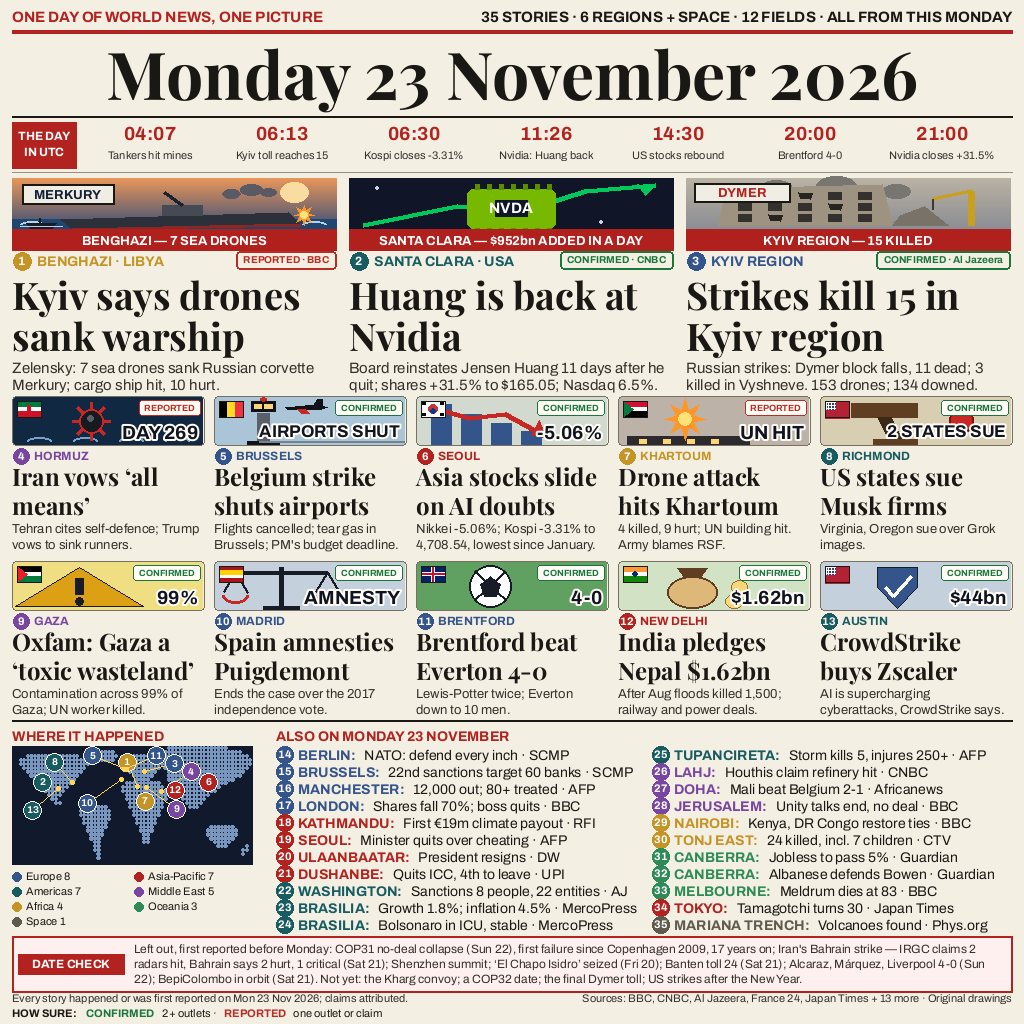
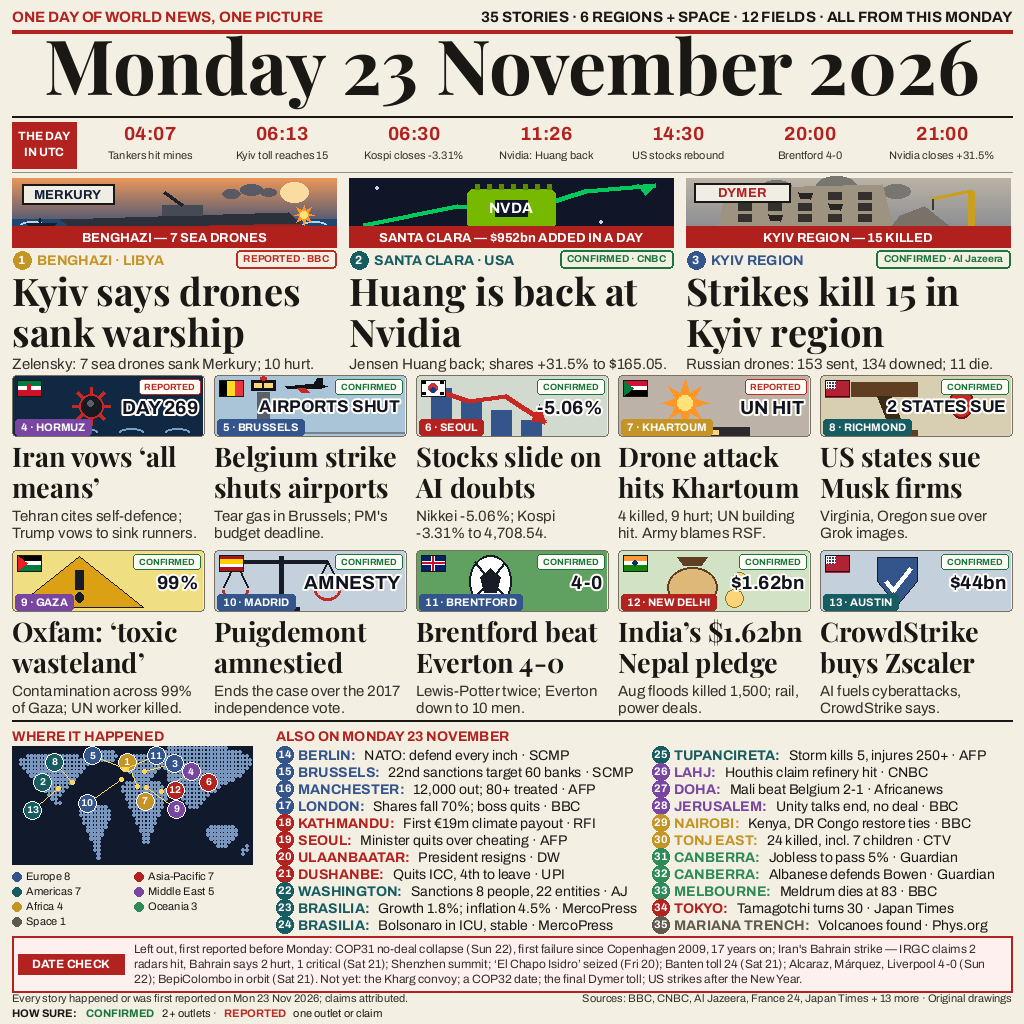
Corrected bagarte targets: cards 27/15, strip 60 + tab, date 76
Card headlines SERIF 24->27 (pitch 31, set by the audit clearance
floor), card decks SANS 13->15, card strips 48->60 with the number
and place moved onto the strip as a tab, date SERIF 66->76. Funded
by one-line hero decks and scenes 72->69; two figures leave the
page and registry (Nasdaq +6.5%, Vyshneve 3; 45->43). ALSO two-tier
assessed: needs ~374-440px vs the 216px bottom band - does not fit,
one-line 14px kept per Ahmad's fallback. All audits clean on the
final bytes; deterministic.

Changed region(s): [[0.0, 0.2188, 1.0, 0.7188], [0.0312, 0.0312, 0.9688, 0.125]]

diff --git a/draw.py b/draw.py
@@ -4,9 +4,10 @@
 One 1024x1024 newspaper page: 3 heroes + 10 cards + a 22-line ALSO
 rail = exactly 35 stories, across 7 regions including Oceania, every
 story dated to Monday 23 November 2026. Geometry first (GATES.md):
-hero headlines 38px, card headlines 24px, brief text >= 14px,
-in-scene labels >= 13px (type scale matched to bagarte, the edition
-22 winner, on Ahmad's instruction 2026-11-24). The layout clones the measured superskie
+hero headlines 38px, card headlines 27px, card decks 15px, date
+76px, brief text >= 14px, in-scene labels >= 13px (type scale
+matched to bagarte, the edition 22 winner, on Ahmad's instruction
+2026-11-24). The layout clones the measured superskie
 template of the winning editions (masthead, UTC timeline, hero bands
 inside the scenes, 5-across x 2-row cards with a single pictogram
 strip, dot-grid world map with numbered pins, ALSO rail, red DATE
@@ -463,22 +464,20 @@ assert all(len(r) == 68 for r in LAND_MAP) and len(LAND_MAP) == 30
 HEROES = [
     ("BENGHAZI, LIBYA", "AFR", "Conflict",
      "Kyiv says drones sank warship",
-     "Zelensky: " + FIG["merkury_drones"] + " sea drones sank Russian "
-     "corvette Merkury; cargo ship hit, "
+     "Zelensky: " + FIG["merkury_drones"] + " sea drones sank Merkury; "
      + FIG["merkury_injured"] + " hurt.",
      "BBC", "R", FIG["merkury_drones"], "SEA DRONES"),
     ("SANTA CLARA, USA", "AME", "Tech",
      "Huang is back at Nvidia",
-     "Board reinstates Jensen Huang 11 days after he quit; shares "
+     "Jensen Huang back; shares "
      + FIG["nvidia_jump"] + " to "
-     + FIG["nvidia_close"] + "; Nasdaq " + FIG["nasdaq_gain"] + ".",
+     + FIG["nvidia_close"] + ".",
      "CNBC", "C", FIG["nvidia_gain"], "ADDED IN A DAY"),
     ("KYIV REGION", "EUR", "Conflict",
      "Strikes kill 15 in Kyiv region",
-     "Russian strikes: Dymer block falls, " + FIG["dymer_killed"]
-     + " dead; " + FIG["vyshneve_killed"] + " killed in Vyshneve. "
-     + FIG["drones_overnight"] + " drones; "
-     + FIG["drones_down"] + " downed.",
+     "Russian drones: " + FIG["drones_overnight"] + " sent, "
+     + FIG["drones_down"] + " downed; " + FIG["dymer_killed"]
+     + " die.",
      "Al Jazeera", "C", FIG["kyiv_region_killed"], "KILLED"),
 ]
 
@@ -490,12 +489,12 @@ CARDS = [
      "Al Jazeera", "R"),
     ("BRUSSELS", "EUR", "Politics",
      "Belgium strike shuts airports",
-     "Flights cancelled; tear gas in Brussels; PM's budget deadline.",
+     "Tear gas in Brussels; PM's budget deadline.",
      "France 24", "C"),
     ("SEOUL", "ASI", "Economy",
-     "Asia stocks slide on AI doubts",
+     "Stocks slide on AI doubts",
      "Nikkei " + FIG["nikkei_fall"] + "; Kospi " + FIG["kospi_fall"]
-     + " to " + FIG["kospi_close"] + ", lowest since January.",
+     + " to " + FIG["kospi_close"] + ".",
      "BBC", "C"),
     ("KHARTOUM", "AFR", "Conflict",
      "Drone attack hits Khartoum",
@@ -507,12 +506,12 @@ CARDS = [
      "Virginia, Oregon sue over Grok images.",
      "Al Jazeera", "C"),
     ("GAZA", "MEA", "Society",
-     "Oxfam: Gaza a \u2018toxic wasteland\u2019",
+     "Oxfam: \u2018toxic wasteland\u2019",
      "Contamination across " + FIG["gaza_contamination"] + " of Gaza; "
      "UN worker killed.",
      "BBC", "C"),
     ("MADRID", "EUR", "Justice",
-     "Spain amnesties Puigdemont",
+     "Puigdemont amnestied",
      "Ends the case over the " + FIG["puigdemont_year"]
      + " independence vote.",
      "La Naci\u00f3n", "C"),
@@ -521,13 +520,13 @@ CARDS = [
      "Lewis-Potter twice; Everton down to 10 men.",
      "Sky Sports", "C"),
     ("NEW DELHI", "ASI", "Diplomacy",
-     "India pledges Nepal $1.62bn",
-     "After Aug floods killed " + FIG["nepal_flood_dead"]
-     + "; railway and power deals.",
+     "India\u2019s $1.62bn Nepal pledge",
+     "Aug floods killed " + FIG["nepal_flood_dead"]
+     + "; rail, power deals.",
      "Al Jazeera", "C"),
     ("AUSTIN", "AME", "Economy",
      "CrowdStrike buys Zscaler",
-     "AI is supercharging cyberattacks, CrowdStrike says.",
+     "AI fuels cyberattacks, CrowdStrike says.",
      "CNBC", "C"),
 ]
 
@@ -707,7 +706,7 @@ HERO_SCENES = [scene_benghazi, scene_nvidia, scene_kyiv]
 
 # ---------------------------------------------------------- card pictograms
 # One dominant pictogram per card, drawn natively at strip size
-# (190x48) on a throwaway canvas: the topic must read from the symbol
+# (190x60) on a throwaway canvas: the topic must read from the symbol
 # alone before any word is decoded.
 def pic_mine(g, ox, oy, wd, ht):
     # DOMINANT: one spiked naval mine, drawn at strip size; the topic
@@ -754,14 +753,14 @@ def pic_plane(g, ox, oy, wd, ht):
 
 def pic_chart_down(g, ox, oy, wd, ht):
     g.rectangle([ox, oy, ox + wd, oy + ht], fill=(210, 218, 208))
-    for idx, bar_h in enumerate((41, 31, 22, 14)):
+    for idx, bar_h in enumerate((48, 36, 26, 16)):
         bx = ox + 14 + idx * 30
         g.rectangle([bx, oy + ht - bar_h, bx + 20, oy + ht],
                     fill=(52, 84, 140))
-    g.line([ox + 10, oy + 9, ox + 52, oy + 21, ox + 88, oy + 17,
-            ox + 128, oy + 39], fill=(200, 40, 36), width=5)
-    g.polygon([(ox + 128, oy + 39), (ox + 114, oy + 38),
-               (ox + 122, oy + 23)], fill=(200, 40, 36))
+    g.line([ox + 10, oy + 11, ox + 52, oy + 25, ox + 88, oy + 20,
+            ox + 128, oy + 46], fill=(200, 40, 36), width=5)
+    g.polygon([(ox + 128, oy + 46), (ox + 114, oy + 45),
+               (ox + 122, oy + 28)], fill=(200, 40, 36))
 
 
 def pic_blast(g, ox, oy, wd, ht):
@@ -770,17 +769,17 @@ def pic_blast(g, ox, oy, wd, ht):
     for wx in (20, 44, 68, 92):
         g.rectangle([ox + wx, oy + ht - 6, ox + wx + 7, oy + ht - 2],
                     fill=(250, 214, 120))
-    _burst(g, ox + 66, oy + 22, 21)
+    _burst(g, ox + 66, oy + 27, 24)
 
 
 def pic_gavel(g, ox, oy, wd, ht):
     g.rectangle([ox, oy, ox + wd, oy + ht], fill=(216, 206, 178))
     g.polygon([(ox + 30, oy + 6), (ox + 96, oy + 6), (ox + 96, oy + 20),
                (ox + 30, oy + 20)], fill=(96, 62, 34))
-    g.polygon([(ox + 56, oy + 20), (ox + 70, oy + 20), (ox + 82, oy + 44),
-               (ox + 68, oy + 44)], fill=(60, 40, 22))
+    g.polygon([(ox + 56, oy + 20), (ox + 70, oy + 20), (ox + 82, oy + 50),
+               (ox + 68, oy + 50)], fill=(60, 40, 22))
     g.rectangle([ox + 52, oy + ht - 6, ox + 96, oy + ht], fill=(96, 62, 34))
-    g.ellipse([ox + 128, oy + 10, ox + 152, oy + 36], fill=(200, 40, 36),
+    g.ellipse([ox + 128, oy + 12, ox + 152, oy + 42], fill=(200, 40, 36),
               outline=(120, 20, 20), width=2)
 
 
@@ -789,8 +788,8 @@ def pic_warning(g, ox, oy, wd, ht):
     g.polygon([(ox + 66, oy + 5), (ox + 130, oy + ht - 4),
                (ox + 2, oy + ht - 4)], fill=(220, 160, 20),
               outline=(24, 28, 38))
-    g.rectangle([ox + 62, oy + 16, ox + 70, oy + 32], fill=(24, 28, 38))
-    g.ellipse([ox + 62, oy + 35, ox + 70, oy + 43], fill=(24, 28, 38))
+    g.rectangle([ox + 62, oy + 19, ox + 70, oy + 38], fill=(24, 28, 38))
+    g.ellipse([ox + 62, oy + 41, ox + 70, oy + 51], fill=(24, 28, 38))
 
 
 def pic_scales(g, ox, oy, wd, ht):
@@ -800,22 +799,22 @@ def pic_scales(g, ox, oy, wd, ht):
     g.line([ox + 20, oy + 10, ox + 112, oy + 10], fill=(24, 28, 38),
            width=4)
     for px in (20, 112):
-        g.line([ox + px, oy + 10, ox + px - 12, oy + 30], fill=(24, 28, 38),
+        g.line([ox + px, oy + 10, ox + px - 12, oy + 36], fill=(24, 28, 38),
                width=2)
-        g.line([ox + px, oy + 10, ox + px + 12, oy + 30], fill=(24, 28, 38),
+        g.line([ox + px, oy + 10, ox + px + 12, oy + 36], fill=(24, 28, 38),
                width=2)
-        g.arc([ox + px - 13, oy + 25, ox + px + 13, oy + 41], 0, 180,
+        g.arc([ox + px - 13, oy + 29, ox + px + 13, oy + 49], 0, 180,
               fill=(200, 40, 36), width=3)
 
 
 def pic_ball(g, ox, oy, wd, ht):
     g.rectangle([ox, oy, ox + wd, oy + ht], fill=(96, 160, 96))
-    g.ellipse([ox + 52, oy + 3, ox + 94, oy + 45], fill=(255, 255, 255),
+    g.ellipse([ox + 52, oy + 4, ox + 94, oy + 56], fill=(255, 255, 255),
               outline=(24, 28, 38), width=2)
-    g.polygon([(ox + 73, oy + 14), (ox + 83, oy + 22), (ox + 79, oy + 34),
-               (ox + 67, oy + 34), (ox + 63, oy + 22)], fill=(24, 28, 38))
-    for (lx, ly) in ((58, 9), (88, 9), (58, 37), (88, 37)):
-        g.line([ox + 73, oy + 24, ox + lx, oy + ly], fill=(24, 28, 38),
+    g.polygon([(ox + 73, oy + 17), (ox + 83, oy + 26), (ox + 79, oy + 41),
+               (ox + 67, oy + 41), (ox + 63, oy + 26)], fill=(24, 28, 38))
+    for (lx, ly) in ((58, 11), (88, 11), (58, 45), (88, 45)):
+        g.line([ox + 73, oy + 30, ox + lx, oy + ly], fill=(24, 28, 38),
                width=2)
 
 
@@ -823,20 +822,20 @@ def pic_moneybag(g, ox, oy, wd, ht):
     g.rectangle([ox, oy, ox + wd, oy + ht], fill=(210, 226, 196))
     g.polygon([(ox + 58, oy + 6), (ox + 88, oy + 6), (ox + 82, oy + 14),
                (ox + 64, oy + 14)], fill=(96, 62, 34))
-    g.ellipse([ox + 48, oy + 14, ox + 98, oy + 46], fill=(222, 184, 120),
+    g.ellipse([ox + 48, oy + 16, ox + 98, oy + 56], fill=(222, 184, 120),
               outline=(96, 62, 34), width=2)
-    g.ellipse([ox + 106, oy + 32, ox + 124, oy + 46], fill=(250, 214, 120),
+    g.ellipse([ox + 106, oy + 38, ox + 124, oy + 56], fill=(250, 214, 120),
               outline=(150, 110, 40), width=1)
-    g.ellipse([ox + 112, oy + 18, ox + 128, oy + 32], fill=(250, 214, 120),
+    g.ellipse([ox + 112, oy + 21, ox + 128, oy + 38], fill=(250, 214, 120),
               outline=(150, 110, 40), width=1)
 
 
 def pic_shield(g, ox, oy, wd, ht):
     g.rectangle([ox, oy, ox + wd, oy + ht], fill=(196, 208, 220))
-    g.polygon([(ox + 56, oy + 5), (ox + 96, oy + 5), (ox + 96, oy + 25),
-               (ox + 76, oy + 46), (ox + 56, oy + 25)], fill=(52, 84, 140),
+    g.polygon([(ox + 56, oy + 6), (ox + 96, oy + 6), (ox + 96, oy + 30),
+               (ox + 76, oy + 54), (ox + 56, oy + 30)], fill=(52, 84, 140),
               outline=(24, 28, 38))
-    g.line([ox + 64, oy + 25, ox + 72, oy + 34, ox + 90, oy + 14],
+    g.line([ox + 64, oy + 30, ox + 72, oy + 40, ox + 90, oy + 17],
            fill=(255, 255, 255), width=4)
 
 
@@ -870,8 +869,8 @@ def main():
             SANS_B(15), MX, RX - rw - 8)
     d.rectangle([MX, 30, RX, 33], fill=RED)
     date = "Monday 23 November 2026"
-    dw = d.textlength(date, font=SERIF(66))
-    d.text(((W - dw) / 2, 28), date, font=SERIF(66), fill=INK)
+    dw = d.textlength(date, font=SERIF(76))
+    d.text(((W - dw) / 2, 12), date, font=SERIF(76), fill=INK)
     d.line([MX, 116, RX, 116], fill=INK, width=2)
     LINES.append(((MX, 116, RX, 116), "date rule"))
 
@@ -906,16 +905,16 @@ def main():
         place, region, field, head, deck, src, sure, big, biglab = hero
         x = MX + i * (hw + 13)
         TAG[0] = ("hero", i)
-        HERO_SCENES[i](d, x, hy, hw, 72)
+        HERO_SCENES[i](d, x, hy, hw, 69)
         TAG[0] = None
         band = f"{place.split(',')[0]} \u2014 {big} {biglab}"
-        d.rectangle([x, hy + 51, x + hw, hy + 72], fill=(176, 32, 28))
+        d.rectangle([x, hy + 48, x + hw, hy + 69], fill=(176, 32, 28))
         bw = d.textlength(band, font=SANS_B(13))
-        d.text((x + (hw - bw) / 2, hy + 55), band, font=SANS_B(13),
+        d.text((x + (hw - bw) / 2, hy + 52), band, font=SANS_B(13),
                fill=(255, 255, 255))
         check_h(f"hero{i+1} band", band, SANS_B(13),
                 x + (hw - bw) / 2, x + hw - 4)
-        ky = hy + 74
+        ky = hy + 73
         col = REGIONS[region][1]
         d.ellipse([x + 1, ky, x + 19, ky + 18], fill=col)
         num = str(i + 1)
@@ -933,24 +932,24 @@ def main():
                fill=scol)
         check_h(f"hero{i+1} kicker", kick, SANS_B(14), x + 25,
                 x + hw - chw2 - 6)
-        hend = text_block(d, x, ky + 16, head, SERIF(38), INK, hw - 2,
+        hend = text_block(d, x, ky + 13, head, SERIF(38), INK, hw - 2,
                           41, max_lines=2, tag=f"hero{i}")
         text_block(d, x, hend + 9, deck, SANS(15), (52, 48, 42), hw - 2,
-                   17, max_lines=2, tag=f"herodeck{i}")
+                   17, max_lines=1, tag=f"herodeck{i}")
 
     # -------------------------------- cards: 5 across x 2 rows
-    cy = 396
+    cy = 375
     cw = (RX - MX - 40) // 5
-    chh = 159
+    chh = 169
     for i, card in enumerate(CARDS):
         place, region, field, head, deck0, src, sure = card
         x = MX + (i % 5) * (cw + 10)
         yy0 = cy + (i // 5) * (chh + 6)
-        tmp = Image.new("RGB", (190, 48), PAPER)
+        tmp = Image.new("RGB", (190, 60), PAPER)
         td = ImageDraw.Draw(tmp)
-        STRIP_PICS[i](td, 0, 0, 190, 48)
+        STRIP_PICS[i](td, 0, 0, 190, 60)
         img.paste(tmp, (x + 1, yy0 + 1))
-        d.rounded_rectangle([x, yy0, x + cw, yy0 + 49], radius=4,
+        d.rounded_rectangle([x, yy0, x + cw, yy0 + 61], radius=4,
                             outline=(120, 112, 96), width=1)
         flag(d, CARD_FLAGS[i], x + 5, yy0 + 5, w=24, h=16)
         FLAGS.append(((x + 5, yy0 + 5, x + 29, yy0 + 21),
@@ -966,22 +965,21 @@ def main():
         ov = CARD_OVERLAYS[i]
         ov_font = SANS_B(19) if len(ov) <= 10 else SANS_B(17)
         ow = d.textlength(ov, font=ov_font)
-        d.text((x + cw - ow - 6, yy0 + 26), ov, font=ov_font,
+        d.text((x + cw - ow - 6, yy0 + 22), ov, font=ov_font,
                fill=(16, 20, 34), stroke_width=2,
                stroke_fill=(255, 253, 246))
         col = REGIONS[region][1]
-        d.ellipse([x + 1, yy0 + 52, x + 17, yy0 + 68], fill=col)
-        num = str(i + 4)
-        nw = d.textlength(num, font=SANS_B(11))
-        d.text((x + 9 - nw / 2, yy0 + 54), num, font=SANS_B(11),
+        tab_t = f"{i + 4} \u00b7 {place}"
+        tw = d.textlength(tab_t, font=SANS_B(11)) + 12
+        d.rounded_rectangle([x + 3, yy0 + 44, x + 3 + tw, yy0 + 60],
+                            radius=3, fill=col)
+        d.text((x + 9, yy0 + 46), tab_t, font=SANS_B(11),
                fill=(255, 255, 255))
-        d.text((x + 22, yy0 + 53), place, font=SANS_B(12), fill=col)
-        check_h(f"card{i+4} kicker", place, SANS_B(12), x + 22,
-                x + cw - 4)
-        text_block(d, x, yy0 + 64, head, SERIF(24), INK, cw - 4, 29,
+        check_h(f"card{i+4} tab", tab_t, SANS_B(11), x + 9, x + 184)
+        text_block(d, x, yy0 + 62, head, SERIF(27), INK, cw - 4, 31,
                    max_lines=2, tag=f"card{i}")
-        text_block(d, x, yy0 + 125, deck0, SANS(13), (52, 48, 42),
-                   cw - 4, 16, max_lines=2, tag=f"carddeck{i}")
+        text_block(d, x, yy0 + 132, deck0, SANS(15), (52, 48, 42),
+                   cw - 4, 17, max_lines=2, tag=f"carddeck{i}")
 
     # -------------------------------- bottom: map left, ALSO right
     by0 = 720
